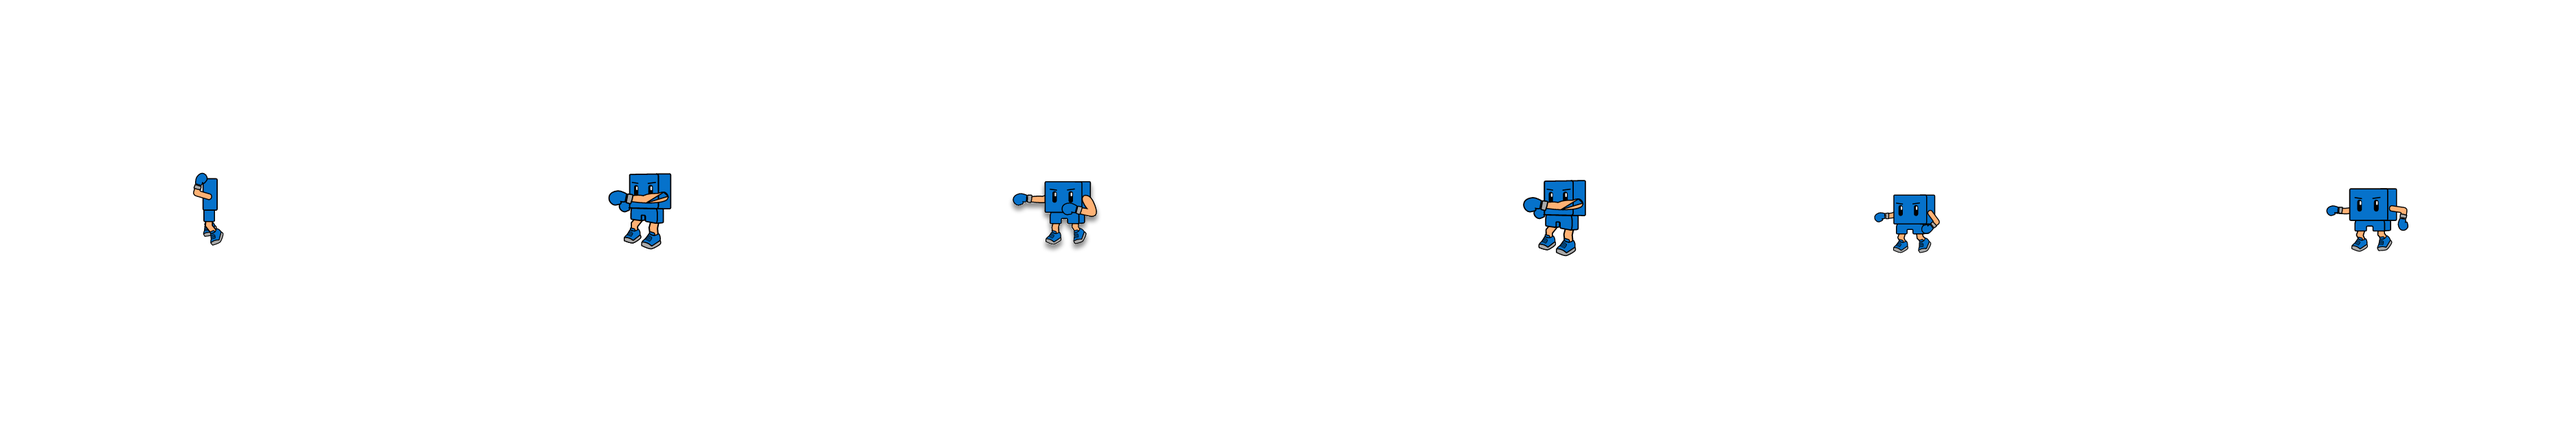
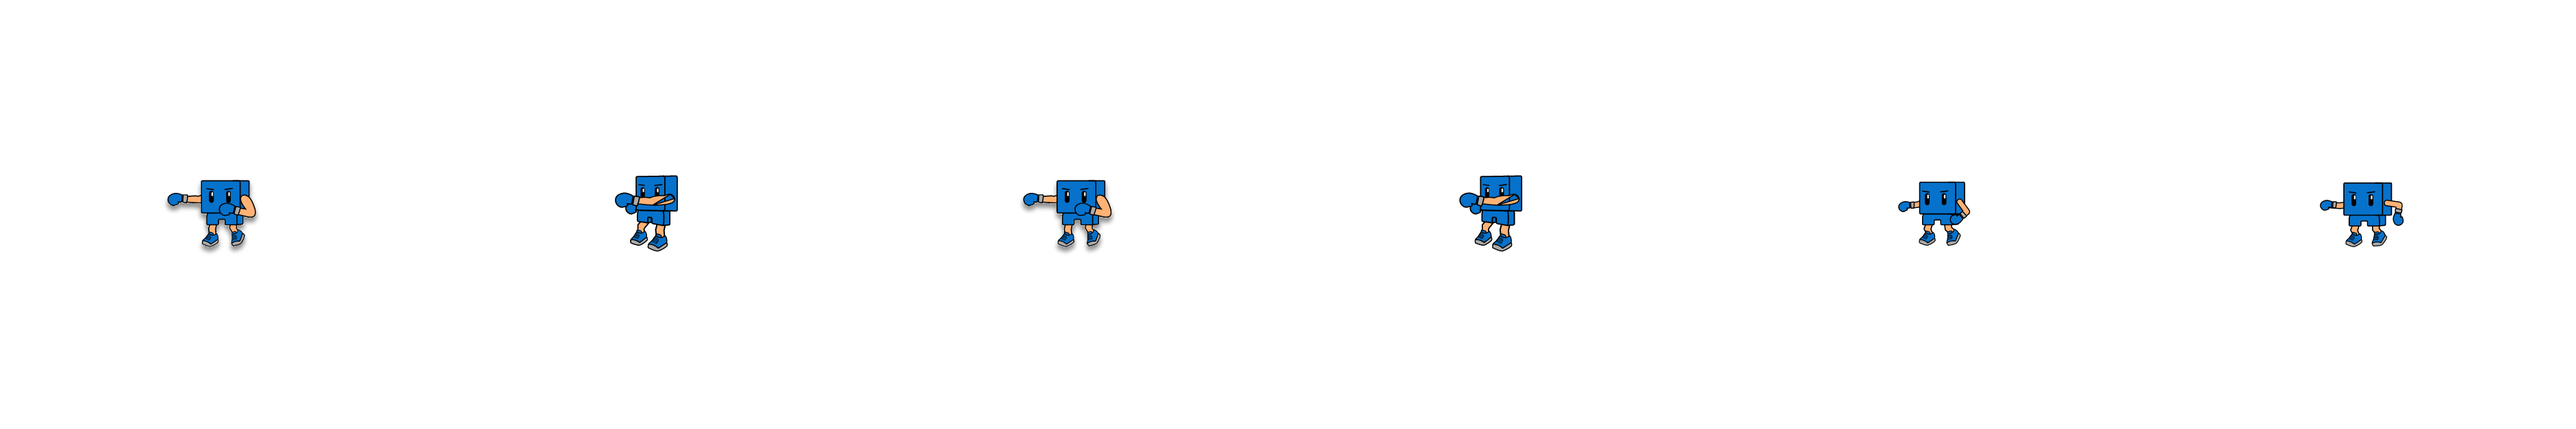
New upper cut

diff --git a/website/index.js b/website/index.js
@@ -169,7 +169,7 @@ const player = new Fighter({
             framesMax: 6
         },
         uppercut: {
-            imageSrc: './static/img/zerto/UppercutCross.png',
+            imageSrc: './static/img/zerto/Uppercut.png',
             framesMax: 6
         }
     },
@@ -218,8 +218,8 @@ const enemy = new Fighter({
             framesMax: 2
         },
         attack1: {
-            imageSrc: './static/img/kenji/Attack1.png',
-            framesMax: 4
+            imageSrc: './static/img/kenji/UppercutCross.png',
+            framesMax: 6
         },
         attack2: {
             imageSrc: './static/img/kenji/Attack2.png',
@@ -238,7 +238,7 @@ const enemy = new Fighter({
             framesMax: 6
         },
         uppercut: {
-            imageSrc: './static/img/kenji/UppercutCross.png',
+            imageSrc: './static/img/kenji/Uppercut.png',
             framesMax: 6
         }
     },
@@ -486,10 +486,10 @@ function enemyAI() {
             }
         }
 
-        // Occasionally jump
-        if (Math.random() < 0.02 && enemy.position.y >= canvas.height - 96 - enemy.height) { // Check if on ground
-            enemy.velocity.y = -15; // Trigger jump
-        }
+        // // Occasionally jump
+        // if (Math.random() < 0.02 && enemy.position.y >= canvas.height - 96 - enemy.height) { // Check if on ground
+        //     enemy.velocity.y = -15; // Trigger jump
+        // }
 
         // Attack and block logic
         if (!enemy.isAttacking && Math.random() < 0.05 && !enemy.isBlocking) {
